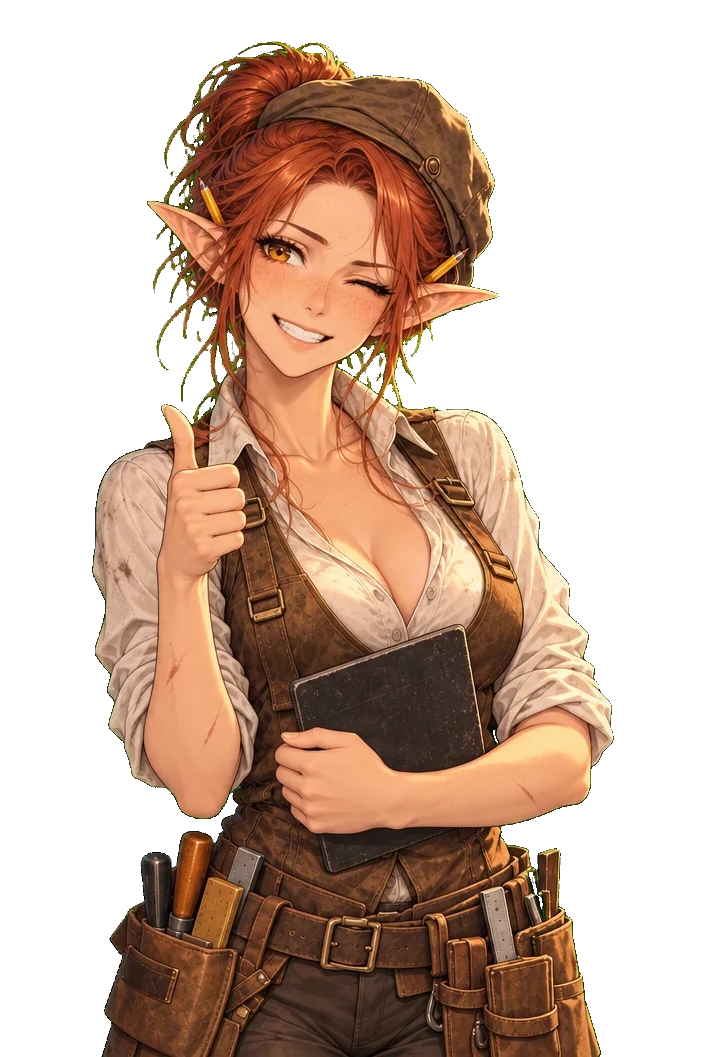
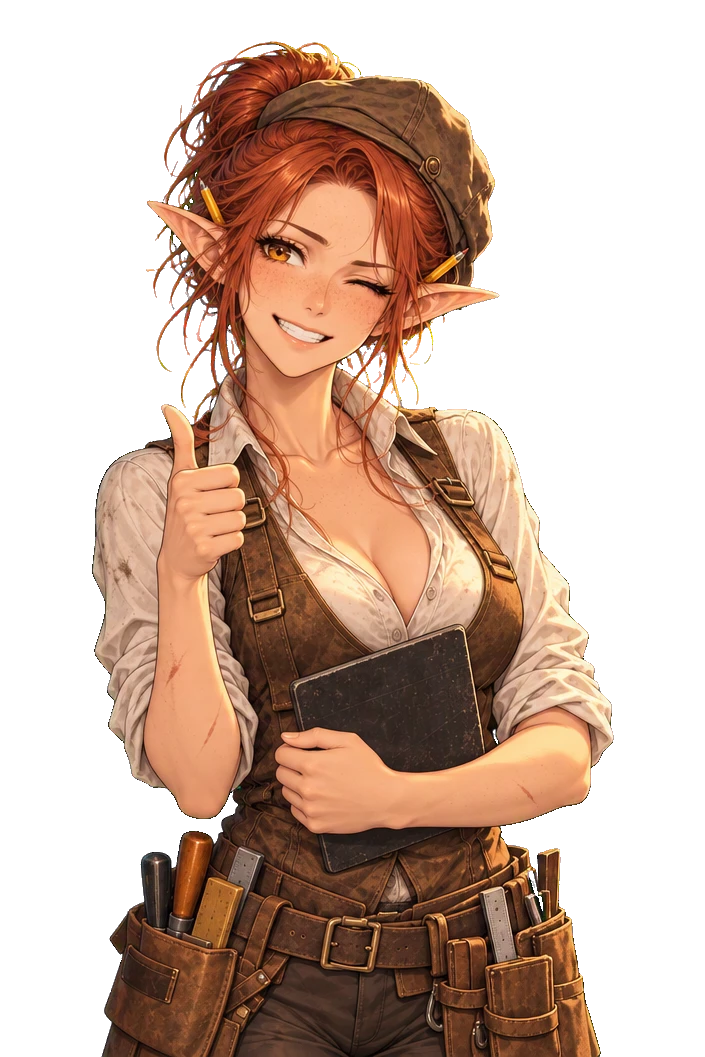
Découpe des planches : mèches fines mêlées au fond vert démêlées (plus de liseré jaune olive dans les cheveux), petits bouts du voisin retirés à la frontière de deux silhouettes jointives ; L'Auberge des Cendres : Fenouil redécoupée, expressions combat, blessée et triste d'Ysolde et de Pervenche

diff --git a/skills/scenario-histoires/reference/images.md b/skills/scenario-histoires/reference/images.md
@@ -121,7 +121,7 @@ Puis, dans l'ordre :
    node scripts/decouper.mjs planche-maren.png "scenarios/<Nom>/personnages/Maren" neutre sourire ferme
    ```
 
-   Les noms suivent l'ordre des silhouettes, de gauche à droite. Le script écrit une image par nom, PNG vertical 2:3, personnage centré avec une petite marge, et rend le fond transparent. Le détourage part des bords sur la couleur du fond, retire aussi le fond enfermé (entre un bras et le corps, entre deux mèches) et adoucit le contour. Sur un fond vert, il retire en plus le reflet vert des bords ; sur un fond gris (anciennes planches), il rogne le halo clair que la compression laisse autour des silhouettes, sans toucher une chemise ou une trousse claires. Une planche déjà détourée garde sa transparence ; `--garder-fond` découpe sans détourer. S'il ne trouve pas autant de silhouettes que de noms (deux personnages qui se touchent), il coupe en parts égales et le signale : vérifiez, ou régénérez avec plus d'espace. S'il retire peu de fond, le fond n'était sans doute pas uni : il le signale.
+   Les noms suivent l'ordre des silhouettes, de gauche à droite. Le script écrit une image par nom, PNG vertical 2:3, personnage centré avec une petite marge, et rend le fond transparent. Le détourage part des bords sur la couleur du fond, retire aussi le fond enfermé (entre un bras et le corps, entre deux mèches) et adoucit le contour. Sur un fond vert, il retire en plus le reflet vert des bords et démêle les mèches fines mêlées au fond, qui gardent leur couleur au lieu de virer au jaune olive ; sur un fond gris (anciennes planches), il rogne le halo clair que la compression laisse autour des silhouettes, sans toucher une chemise ou une trousse claires. Une planche déjà détourée garde sa transparence ; `--garder-fond` découpe sans détourer. S'il ne trouve pas autant de silhouettes que de noms (deux personnages qui se touchent), il coupe là où il y a le moins de personnage, retire les petits bouts du voisin restés dans la case (un bord de chapeau, une manche) et le signale : vérifiez, ou régénérez avec plus d'espace. S'il retire peu de fond, le fond n'était sans doute pas uni : il le signale.
 4. **Vérifier chaque image** sur fond sombre (liseré clair autour des cheveux), puis convertir en WebP si possible : un PNG détouré pèse souvent plus d'un mégaoctet.
 5. **Ranger la planche hors du dossier du personnage** : toute image de `personnages/<Nom>/` devient une expression. Gardez-la hors du scénario, ou dans `planches/` à la racine du scénario, que l'application ignore.
 
